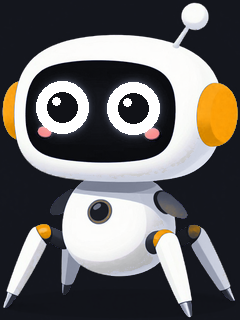
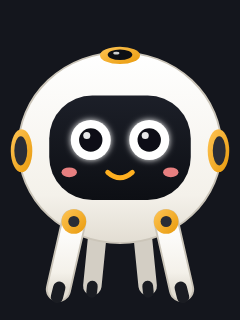
Redesign mascot as ball robot on four legs (matches the bernd-zuther.de tile)
The figure now follows the PiCrawler renders on bernd-zuther.de
(pc-szene-1..3): one white ball instead of a rectangular head on a
small body, four short capsule legs with amber joints, an amber camera
ring on top instead of the antenna, round amber side lenses instead of
the rectangular ears, and a small amber smile under the comic eyes.
Colours unchanged.

- logo.svg / docs/logo.svg / logo-mark.svg redrawn
- icon-1024.png re-rendered from logo-mark.svg (full-bleed recipe)
- robot.png re-rendered from logo.svg (portrait crop on #14161D)
- ConnectView RobotMark redrawn with the logo-mark geometry
- STYLE_GUIDE: new shape table (1.0), updated eye geometry, colours
  and the robot.png render recipe

diff --git a/apps/ios/PiCrawler/Views/ConnectView.swift b/apps/ios/PiCrawler/Views/ConnectView.swift
@@ -125,7 +125,9 @@ struct RobotList: View {
     }
 }
 
-/// The compact logo (head on a dark tile), drawn natively.
+/// The compact logo (ball robot with four legs on a dark tile), drawn
+/// natively; same geometry as logo-mark.svg (64-unit grid, offsets from the
+/// centre 32/32).
 struct RobotMark: View {
     var body: some View {
         GeometryReader { geo in
@@ -133,19 +135,38 @@ struct RobotMark: View {
             ZStack {
                 RoundedRectangle(cornerRadius: 15 * s)
                     .fill(LinearGradient(colors: [Color(hex: 0x232631), Theme.deep2], startPoint: .topLeading, endPoint: .bottomTrailing))
-                Group {
-                    Capsule().fill(Theme.accent).frame(width: 9 * s, height: 19 * s).offset(x: -20.5 * s, y: 2.5 * s)
-                    Capsule().fill(Theme.accent).frame(width: 9 * s, height: 19 * s).offset(x: 20.5 * s, y: 2.5 * s)
-                    RoundedRectangle(cornerRadius: 17 * s).fill(Color(hex: 0xFAF8F3)).frame(width: 40 * s, height: 42 * s).offset(y: 2 * s)
-                    RoundedRectangle(cornerRadius: 9.5 * s).fill(Color(hex: 0x0D0F14)).frame(width: 30 * s, height: 24 * s).offset(y: 1 * s)
-                    // comic eyes like logo-mark.svg: white eye, dark pupil, highlight
-                    ForEach([-6.0, 6.0], id: \.self) { x in
-                        Circle().fill(.white).frame(width: 9.2 * s).offset(x: x * s, y: 0.5 * s)
-                        Circle().fill(Theme.background).frame(width: 5.4 * s).offset(x: x * s, y: 0.5 * s)
-                        Circle().fill(.white.opacity(0.9)).frame(width: 1.7 * s).offset(x: (x - 1) * s, y: -0.7 * s)
-                    }
-                    Circle().fill(.white).frame(width: 6.8 * s).offset(x: 14 * s, y: -25.5 * s)
+                // back legs behind the ball, ball, front legs with amber joints
+                ForEach([-1.0, 1.0], id: \.self) { side in
+                    Capsule().fill(Color(hex: 0xD3CEC4)).frame(width: 4.4 * s, height: 13.5 * s)
+                        .rotationEffect(.degrees(-9.5 * side)).offset(x: 5.75 * side * s, y: 18.5 * s)
                 }
+                Ellipse().fill(Color(hex: 0xFAF8F3)).frame(width: 44 * s, height: 41 * s).offset(y: -3 * s)
+                ForEach([-1.0, 1.0], id: \.self) { side in
+                    Capsule().fill(.white).frame(width: 5.2 * s, height: 17.2 * s)
+                        .rotationEffect(.degrees(-17 * side)).offset(x: 12.25 * side * s, y: 18.75 * s)
+                    Circle().fill(Theme.accent).frame(width: 5.4 * s).offset(x: 10.5 * side * s, y: 13 * s)
+                    // side camera lenses
+                    Ellipse().fill(Theme.accent).frame(width: 5.2 * s, height: 10.4 * s).offset(x: 21.5 * side * s, y: -2 * s)
+                }
+                // camera ring on top
+                Ellipse().fill(Theme.accent).frame(width: 10 * s, height: 4.4 * s).offset(y: -22.8 * s)
+                Ellipse().fill(Theme.background).frame(width: 6 * s, height: 2.6 * s).offset(y: -23 * s)
+                // screen face
+                RoundedRectangle(cornerRadius: 9.5 * s).fill(Color(hex: 0x0D0F14)).frame(width: 30 * s, height: 24 * s).offset(y: -2.5 * s)
+                // comic eyes like logo-mark.svg: white eye, dark pupil, highlight
+                ForEach([-6.5, 6.5], id: \.self) { x in
+                    Circle().fill(.white).frame(width: 10 * s).offset(x: x * s, y: -4 * s)
+                    Circle().fill(Theme.background).frame(width: 5.8 * s).offset(x: x * s, y: -4 * s)
+                    Circle().fill(.white.opacity(0.9)).frame(width: 1.8 * s).offset(x: (x - 1) * s, y: -5.2 * s)
+                    Ellipse().fill(Color(hex: 0xFF8C8C)).frame(width: 4 * s, height: 2.5 * s).offset(x: x * 1.754 * s, y: 4.6 * s)
+                }
+                // smile
+                Path { p in
+                    p.move(to: CGPoint(x: 29.2 * s, y: 35.8 * s))
+                    p.addQuadCurve(to: CGPoint(x: 34.8 * s, y: 35.8 * s), control: CGPoint(x: 32 * s, y: 38.4 * s))
+                }
+                .stroke(Theme.accent, style: StrokeStyle(lineWidth: 1.4 * s, lineCap: .round))
+                .frame(width: 64 * s, height: 64 * s)
             }
             .frame(width: geo.size.width, height: geo.size.height)
         }

diff --git a/services/display/splash.py b/services/display/splash.py
@@ -22,7 +22,7 @@ BACKGROUND = (20, 22, 29)       # #14161D, dark background of the artwork
 def robot_bitmap(height=62):
     """The robot from the project artwork as a 1-bit picture.
 
-    White shell fully lit, amber parts (ears, joints) dithered, background,
+    White shell fully lit, amber parts (joints, lenses, smile) dithered, background,
     visor and the pink cheeks dark, so the comic eyes (white eye, dark
     pupil, highlight) stay clean.
     """

diff --git a/docs/STYLE_GUIDE.md b/docs/STYLE_GUIDE.md
@@ -14,9 +14,29 @@ and missed the others; the hollow-ring-eye bug took three commits
 
 ## 1. Mascot rules
 
-The mascot is a white, round robot head with a near-black visor, amber ears,
-pink cheeks and an antenna with a ball. Full figure: `logo.svg`; head on a dark
-tile: `logo-mark.svg`.
+The mascot is the robot from the PiCrawler tile on bernd-zuther.de
+(`assets/picrawler/pc-szene-{1,2,3}.webp`, 3D renders): a white **ball** (head
+and body in one) standing on **four short cylindrical legs**, with a big
+near-black screen face, comic eyes, a small amber smile and pink cheeks. Full
+figure: `logo.svg`; the same figure, compacted, on a dark tile: `logo-mark.svg`.
+
+### 1.0 Shape (since the ball redesign)
+
+| Part | Shape | `logo.svg` (200 grid) | `logo-mark.svg` (64 grid) |
+|---|---|---|---|
+| Ball | one ellipse, slightly wider than tall; no separate head/body, no neck | centre (100, 90), rx 66, ry 62 | centre (32, 29), rx 22, ry 20.5 |
+| Screen face | rounded rect, ~70 % of the ball width, upper middle | x 54–146, y 56–124, rx 28 | x 17–47, y 17.5–41.5, rx 9.5 |
+| Camera ring | flat amber ellipse with a dark lens on top of the ball (replaces the old antenna) | (100, 30), rx 13 / 5.6, lens 8 / 3.4 | (32, 9.2), rx 5 / 2.2, lens 3 / 1.3 |
+| Side lenses | upright amber ellipses with a dark lens, sitting on the ball outline left and right (replace the old rectangular ears) | (36 / 164, 92), rx 7, ry 14 | (10.5 / 53.5, 30), rx 2.6, ry 5.2 (amber only) |
+| Legs | 4 straight capsules (round caps); 2 front legs splayed outwards in the shell colour, 2 back legs in between in `#D3CEC4`, drawn behind the ball | front 70→60 / 130→140 (y 138→182, width 14 + `#CBC5B9` outline), back 86→82 / 114→118 (y 140→180, width 12) | front 21.5→18 / 42.5→46 (y 45→56.5, width 5.2), back 27→25.5 / 37→38.5 (y 46→55, width 4.4) |
+| Joints | amber disc at the top of each front leg, dark hub `#2A2D36` | r 8, hub r 3.6 | r 2.7 (no hub) |
+| Feet | short dark tips `#1A1C22` | width 8 / 7 | none (invisible on the dark tile) |
+| Smile | amber `#FFB020` quadratic curve under the eyes, round caps | `M92 106 Q100 113 108 106`, width 3.2 | `M29.2 35.8 Q32 38.4 34.8 35.8`, width 1.4 |
+| Cheeks | pink ellipses at the lower screen corners | (67 / 133, 106), rx 5, ry 3.2 | (20.6 / 43.4, 36.6), rx 2, ry 1.25 |
+
+**Gone for good:** rectangular head, rectangular side ears, antenna with a
+ball, separate small body with a belly lens. Don't bring them back in one
+file only; the shape is the same in every format (SVG, PNG, Swift).
 
 ### 1.1 Eyes: always comic eyes, never rings
 
@@ -38,25 +58,25 @@ Reference geometry (copy it, don't re-invent it):
 
 | File | Eye centres | R (eye) | Pupil r | Highlight r / offset |
 |---|---|---|---|---|
-| `services/web/static/logo.svg` (= `docs/logo.svg`) | (83, 79), (117, 79) | 10.5 | 6.2 (59 %) | 1.9 at (−2.2, −2.4) |
-| `services/web/static/logo-mark.svg` | (26, 32.5), (38, 32.5) | 4.6 | 2.7 (59 %) | 0.85 at (−1, −1.2) |
-| `apps/ios/.../ConnectView.swift` `RobotMark` (64-unit grid, diameters) | x ±6, y +0.5 from centre | 9.2 ⌀ | 5.4 ⌀ (59 %) | 1.7 ⌀ at (−1, −1.2) |
+| `services/web/static/logo.svg` (= `docs/logo.svg`) | (81, 85), (119, 85) | 13 | 7.6 (58 %) | 2.3 at (−2.6, −2.9) |
+| `services/web/static/logo-mark.svg` | (25.5, 28), (38.5, 28) | 5 | 2.9 (58 %) | 0.9 at (−1, −1.2) |
+| `apps/ios/.../ConnectView.swift` `RobotMark` (64-unit grid, diameters) | x ±6.5, y −4 from centre | 10 ⌀ | 5.8 ⌀ (58 %) | 1.8 ⌀ at (−1, −1.2) |
 
 ```svg
 <!-- logo.svg: correct -->
-<circle cx="83" cy="79" r="10.5" fill="#FFFFFF"/>
-<circle cx="83" cy="79" r="6.2" fill="#0D0F14"/>
-<circle cx="80.8" cy="76.6" r="1.9" fill="#FFFFFF" opacity="0.9"/>
+<circle cx="81" cy="85" r="13" fill="#FFFFFF"/>
+<circle cx="81" cy="85" r="7.6" fill="#0D0F14"/>
+<circle cx="78.4" cy="82.1" r="2.3" fill="#FFFFFF" opacity="0.9"/>
 
 <!-- WRONG: hollow ring -->
-<circle cx="83" cy="79" r="10.5" fill="none" stroke="#FFFFFF" stroke-width="3"/>
+<circle cx="81" cy="85" r="13" fill="none" stroke="#FFFFFF" stroke-width="3"/>
 ```
 
 ```swift
 // ConnectView.swift RobotMark: correct (s = size / 64)
-Circle().fill(.white).frame(width: 9.2 * s).offset(x: x * s, y: 0.5 * s)
-Circle().fill(Theme.background).frame(width: 5.4 * s).offset(x: x * s, y: 0.5 * s)
-Circle().fill(.white.opacity(0.9)).frame(width: 1.7 * s).offset(x: (x - 1) * s, y: -0.7 * s)
+Circle().fill(.white).frame(width: 10 * s).offset(x: x * s, y: -4 * s)
+Circle().fill(Theme.background).frame(width: 5.8 * s).offset(x: x * s, y: -4 * s)
+Circle().fill(.white.opacity(0.9)).frame(width: 1.8 * s).offset(x: (x - 1) * s, y: -5.2 * s)
 ```
 
 Pupil and eye share the same centre (no "looking sideways" offsets), so the
@@ -66,12 +86,12 @@ mark stays symmetric at 16 px favicon size.
 
 | Part | Colour |
 |---|---|
-| Shell (head, body, front legs) | gradient `#FFFFFF` → `#F4F1EA` (→ `#E2DDD2` in `logo.svg`), stroke `#CBC5B9` 1.2 |
+| Shell (ball, front legs) | gradient `#FFFFFF` → `#F4F1EA` (→ `#E2DDD2` in `logo.svg`), stroke `#CBC5B9` 1.2 |
 | Visor | `#0D0F14` (mark), gradient `#1C1F28` → `#0D0F14` (`logo.svg`) |
-| Ears, joints, body "lens" ring | amber gradient `#FFC555` → `#E89A0C` (`id="ear"`) |
+| Camera ring, side lenses, leg joints | amber gradient `#FFC555` → `#E89A0C` (`id="ear"`, name kept from the old ears); lenses inside `#0D0F14` (top) / `#2A2D36` (sides) |
+| Smile | `#FFB020` stroke |
 | Cheeks | `#FF8C8C` ellipses below the eyes, opacity 0.9 |
-| Back legs / feet / side joints | `#D3CEC4` / `#1A1C22` / `#2A2D36` |
-| Antenna | shell colours, ball top right |
+| Back legs / feet / joint hubs | `#D3CEC4` / `#1A1C22` / `#2A2D36` |
 | Tile of the mark | gradient `#232631` → `#0D0F14`, rx 15 of 64, thin amber edge `#FFB020` at 45 % opacity |
 | Eye glow (`logo.svg` only) | `filter="url(#glow)"` Gaussian blur 2.2 on the eye group |
 
@@ -192,7 +212,7 @@ contrast("#9A5B00", "#FAF8F3")   # 5.11
 |---|---|---|
 | `services/web/static/logo.svg` | full mascot (login page art) — **master of the figure** | SVG |
 | `docs/logo.svg` | README logo, identical copy of the file above | SVG |
-| `services/web/static/logo-mark.svg` | head on a dark tile (header, favicon of every page) — **master of the mark** | SVG |
+| `services/web/static/logo-mark.svg` | compact ball robot on a dark tile (header, favicon of every page) — **master of the mark** | SVG |
 | `services/web/static/app.css` | all web colours as CSS variables (light, dark, `prefers-color-scheme`) | CSS |
 | `services/web/static/app.js` | `BOX_COLORS` | JS |
 | `services/web/static/remote.js` | map canvas colours (hard-coded `rgba(...)`) | JS |
@@ -200,7 +220,7 @@ contrast("#9A5B00", "#FAF8F3")   # 5.11
 | `services/display/assets/robot.png` | raster mascot artwork (240×320, dark background) for the OLED splash | PNG |
 | `services/display/splash.py` | `BACKGROUND = (20, 22, 29)` key colour (#14161D), pink-cheek/amber thresholds for 1-bit dithering | Python |
 | `apps/ios/PiCrawler/App/Theme.swift` | all iOS colours | Swift |
-| `apps/ios/PiCrawler/Views/ConnectView.swift` | `RobotMark`: the mark drawn natively (tile, ears, head, visor, comic eyes, antenna) | Swift |
+| `apps/ios/PiCrawler/Views/ConnectView.swift` | `RobotMark`: the mark drawn natively (tile, legs, ball, joints, side lenses, camera ring, screen, comic eyes, cheeks, smile), same geometry as `logo-mark.svg` | Swift |
 | `apps/ios/PiCrawler/Views/{MapView,RemoteView,JoystickView}.swift` | use `Theme.*`, `MapView` has `0x3A3E4A` | Swift |
 | `apps/ios/PiCrawler/Assets.xcassets/AppIcon.appiconset/icon-1024.png` | app icon, rendered from `logo-mark.svg` | PNG |
 | `apps/ios/PiCrawler/Assets.xcassets/LaunchBackground.colorset/Contents.json` | launch colour `0x14 0x16 0x1D` | JSON |
@@ -228,7 +248,7 @@ the SVGs unless you update them in the same commit**:
 | PNG | Source | How |
 |---|---|---|
 | `icon-1024.png` | `logo-mark.svg` | full-bleed: remove `rx="15"` from the tile rect and drop the amber edge rect (iOS applies its own corner mask), render 1024×1024 |
-| `robot.png` | none (raster artwork) | edit pixels directly (ff1bfb9 recoloured it pixel-wise); keep 240×320 and the `#14161D` background, check the eyes, then run the splash tests |
+| `robot.png` | `logo.svg` | remove the ground-shadow ellipse, set `viewBox="22 -6 156 208"` (portrait crop), render 240×320 on `#14161D` (`<body style="background:#14161D">`); then check the eyes and run the splash tests |
 
 Render recipe (browser over CDP; reproduces the committed `icon-1024.png`
 pixel-identically). With the agent's browser helpers:
